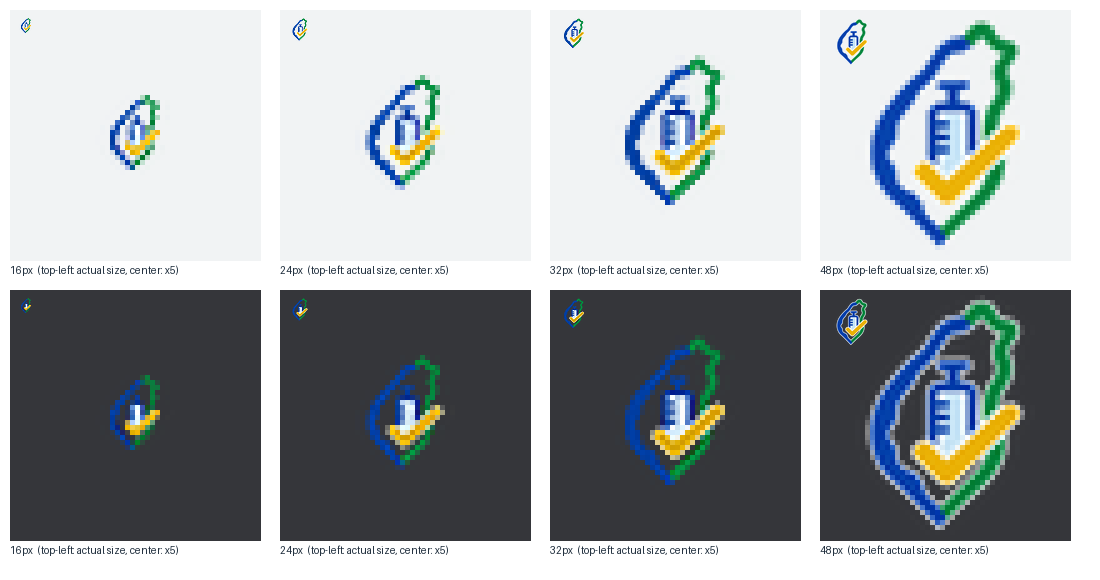
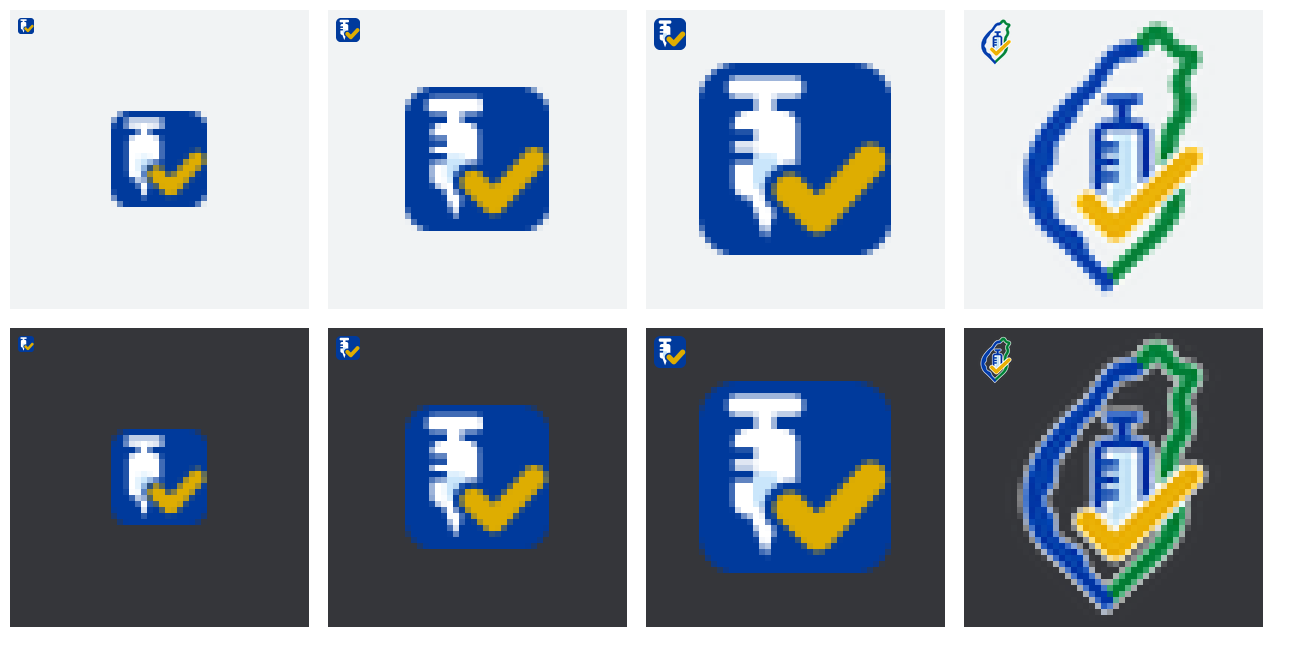
v0.4.19: 工具列方形小圖示(藍底白針筒黃勾)

diff --git a/scripts/make-brand.py b/scripts/make-brand.py
@@ -1,10 +1,9 @@
 #!/usr/bin/env python3
-"""由 assets/source/ 原圖產生外掛圖示與品牌 PNG(需 Pillow、numpy)。產物已提交進 repo,建置不需執行本腳本。
+"""由 assets/source/ 原圖產生外掛圖示與品牌 PNG(需 Pillow)。產物已提交進 repo,建置不需執行本腳本。
 用法:python3 scripts/make-brand.py
 """
 from pathlib import Path
-from PIL import Image, ImageFilter
-import numpy as np
+from PIL import Image, ImageFilter, ImageDraw
 
 ROOT = Path(__file__).resolve().parent.parent
 SRC = ROOT / 'assets/source'
@@ -34,24 +33,54 @@ def save(im, path):
     Image.open(path).load()   # 寫完立即解碼驗證
     print('✓', path.relative_to(ROOT), im.size)
 
-def drop_shadow(im):
-    """去掉圖形下方的淡藍橢圓陰影(只在圖高 86% 以下找淡藍像素)"""
-    a = np.array(im.convert('RGBA'))
-    h = a.shape[0]
-    low = np.arange(h)[:, None] > h * 0.86
-    a[low & (a[..., 2] > 200) & (a[..., 0] < 235) & (a[..., 1] > 200)] = 0
-    return Image.fromarray(a)
+# 工具列小圖示(16/24/32 px):直長的臺灣標誌在工具列只剩輪廓,另畫方形版「藍底 + 白色針筒 + 黃勾」。
+# 以 16 格為設計網格、8 倍超取樣再縮小;色票取自原圖。刻度只在 24 px 以上畫。
+BLUE=(0,58,156); GREEN=(2,131,58); YEL=(222,173,1); LIGHT=(202,230,251); WHITE=(255,255,255)
+def small(size, SS=8):
+    k=size*SS/16.0; S=size*SS
+    im=Image.new('RGBA',(S,S),(0,0,0,0)); d=ImageDraw.Draw(im)
+    R=lambda *xy: [v*k for v in xy]
+    d.rounded_rectangle(R(0,0,16,16),radius=3.2*k,fill=BLUE)
+    # 針筒(白):推桿頭、推桿、筒身(下半為藥液)、針頭
+    d.rounded_rectangle(R(2.4,1.2,8.6,2.8),radius=0.7*k,fill=WHITE)
+    d.rectangle(R(4.7,2.8,6.3,4.0),fill=WHITE)
+    d.rounded_rectangle(R(2.9,4.0,8.1,11.2),radius=1.1*k,fill=WHITE)
+    if size >= 24:
+        for y in (5.6,7.4): d.rectangle(R(2.9,y,4.6,y+0.9),fill=BLUE)   # 刻度(24 px 以上才畫)
+    d.rounded_rectangle(R(4.5,7.6,6.5,10.4),radius=0.4*k,fill=LIGHT)   # 藥液
+    d.polygon([(4.3*k,11.2*k),(6.7*k,11.2*k),(5.5*k,14.6*k)],fill=WHITE)
+    # 勾(黃,外圍藍色間隔)
+    pts=[(7.6*k,10.6*k),(9.9*k,12.9*k),(14.3*k,8.1*k)]
+    for col,w in ((BLUE,4.4),(YEL,2.6)):
+        d.line(pts,fill=col,width=round(w*k),joint='curve')
+        for p in (pts[0],pts[-1]): d.ellipse([p[0]-w/2*k,p[1]-w/2*k,p[0]+w/2*k,p[1]+w/2*k],fill=col)
+    # 圓角外切乾淨
+    mask=Image.new('L',(S,S),0); ImageDraw.Draw(mask).rounded_rectangle(R(0,0,16,16),radius=3.2*k,fill=255)
+    im.putalpha(Image.composite(im.getchannel('A'),Image.new('L',(S,S),0),mask))
+    return im.resize((size,size),Image.BOX)
 
-# 擴充功能圖示(不含文字):
-#  48/128 px 用白描邊版(與品牌素材一致);
-#  16/24/32 px 用無描邊平面版去陰影 — 白描邊在工具列尺寸只會變成糊邊,深色主題下平面版較清楚
+# 擴充功能圖示(不含文字):16/24/32 用方形小圖示;48/128(擴充功能清單)用原圖白描邊版
 mark = trim(Image.open(SRC / 'vaxcheck-mark-sticker.png'), pad=0.02)
-flat = trim(drop_shadow(Image.open(SRC / 'vaxcheck-mark-flat-shadow.png')), pad=0.02)
-for s in (16, 24, 32, 48, 128):
-    ic = (flat if s <= 32 else mark).resize((s, s), Image.LANCZOS)
-    if s <= 32:
-        ic = ic.filter(ImageFilter.UnsharpMask(radius=0.6, percent=80, threshold=0))
-    save(ic, ROOT / f'assets/icons/icon{s}.png')
+for s in (16, 24, 32):
+    save(small(s), ROOT / f'assets/icons/icon{s}.png')
+for s in (48, 128):
+    save(mark.resize((s, s), Image.LANCZOS), ROOT / f'assets/icons/icon{s}.png')
+
+# 預覽圖 docs/img/toolbar-icon.png:淺色/深色工具列,左上原尺寸、中間放大
+Z = 6
+cw = 48 * Z + 30
+pv = Image.new('RGB', (4 * cw + 20, 2 * (48 * Z + 30) + 20), 'white')
+dd = ImageDraw.Draw(pv)
+for r, bg in enumerate(('#F1F3F4', '#35363A')):
+    y = 10 + r * (48 * Z + 30)
+    for c, sz in enumerate((16, 24, 32, 48)):
+        x = 10 + c * cw
+        dd.rectangle([x, y, x + 48 * Z + 10, y + 48 * Z + 10], fill=bg)
+        ic = Image.open(ROOT / f'assets/icons/icon{sz}.png').convert('RGBA')
+        big = ic.resize((sz * Z, sz * Z), Image.NEAREST)
+        pv.paste(big, (x + 5 + (48 - sz) * Z // 2, y + 5 + (48 - sz) * Z // 2), big)
+        pv.paste(ic, (x + 8, y + 8), ic)
+save(pv, ROOT / 'docs/img/toolbar-icon.png')
 
 # 品牌 PNG(README、文件用;縮到網頁合用大小)
 def fit(im, w):

diff --git a/docs/STATUS.md b/docs/STATUS.md
@@ -1,4 +1,4 @@
-# 疫苗檢核程式 — 進度(v0.4.18)
+# 疫苗檢核程式 — 進度(v0.4.19)
 
 > 正本在 Cowork Project「疫苗檢核程式」的 claude/STATUS.md;此檔為 repo 建立時的快照。
 
@@ -18,6 +18,7 @@
 - 2026-09-27:罕見疾病改用國健署完整名單(115-07-23)作病歷證據(YC;取代同日稍早「不另建清單」之決定)。通用碼不作證據,見 v0.4.8。
 
 ## 已完成
+- **v0.4.19**(2026-09-28):工具列 16/24/32 px 改為 make-brand.py 繪製的方形小圖示(16 格網格、8 倍超取樣;藍 #003A9C 底、白針筒、黃 #DEAD01 勾含藍色間隔;刻度 ≥24 px 才畫);48/128 仍為 mark-sticker。make-brand.py 同時產生 docs/img/toolbar-icon.png,移除 numpy 依賴。
 - **v0.4.18**(2026-09-28):標誌改用 assets/source 原圖。scripts/make-brand.py(Pillow+numpy,產物提交)產生 assets/icons 16–128(≤32 用 mark-flat-shadow 去陰影、48/128 用 mark-sticker)與 assets/brand 3 張(lockup-vertical-zh、lockup-horizontal、mark)。刪 assets/logo.svg、logo-small.svg、alternatives/、舊 brand 6 張(其中 project-logo、vaxcheck-full 與 icons/icon128 為損毀檔)、docs/img/logo-alternatives.png、demo-page.png、options-page.png;toolbar-icon.png 重產。移除 devDependency @resvg/resvg-js。tests/icons.test.mjs 改為逐 chunk CRC + IDAT inflate 檢查 assets 下全部 PNG。
 - **v0.4.17**(2026-09-28):assets/source/ 標誌素材原檔 10 張(依圖形命名)+ _overview.png + README(尺寸、SHA-256、原始檔名)。不進建置。
 - **v0.4.16**(2026-09-28):(YC)scripts/install.ps1(PowerShell 5.1 相容;GitHub API releases/latest 取 `vaxcheck-ext-*.zip`、SHA256SUMS 校驗、桌面\vaxcheck 保留資料夾只清內容、攤平多一層、防誤刪非 VaxCheck 資料夾、Set-Clipboard、開 chrome://extensions)與 README 貼上區塊;tests/install-script.test.mjs 檢查兩者同步、5.1 語法限制、不動登錄檔,有 pwsh 時解析 + 本機假 API 實跑。標誌 assets/logo.svg(48/128)、assets/logo-small.svg(16/24/32),scripts/icons.mjs 以 @resvg/resvg-js(新 devDependency)產生 PNG,取代 build.mjs 手繪 PNG;manifest icons 加 32、action.default_icon 16/24/32;設定頁標題、示範頁 favicon。截圖 docs/img/toolbar-icon.png、options-page.png、demo-page.png、logo-alternatives.png。v0.4.14–0.4.15 未單獨發行,隨本版發行(線上規則 v0412)。單元與情境 132/132、端對端 56/56。

diff --git a/CHANGELOG.md b/CHANGELOG.md
@@ -2,6 +2,10 @@
 
 每一版一節,標題格式固定為 `## vX.Y.Z(日期)`:發行時 `scripts/release-notes.mjs` 取該節當 GitHub Release 說明,沒有這一節就不能發行。技術細節見 `docs/STATUS.md`。
 
+## v0.4.19(2026-09-28)
+- **工具列專用方形小圖示**(16/24/32 px):藍底 + 白色針筒 + 黃色勾,顏色取自新標誌。原本直長的臺灣標誌在工具列只剩輪廓、看不出針筒;方形版在淺色與深色主題都清楚。擴充功能清單(48/128 px)仍用完整標誌。
+- 判定邏輯與規則內容未變(規則 2026.09.28-v0412)。
+
 ## v0.4.18(2026-09-28)
 - **換上新標誌**(臺灣輪廓 + 疫苗針劑 + 勾選):擴充功能圖示、設定頁、示範頁、README 主圖全部改用 `assets/source/` 的原圖。工具列 16/24/32 px 用無白邊的平面版,深色主題下較清楚;48/128 px 用白描邊版。
 - 修正:舊版 128 px 圖示與 README 主圖檔案損毀(擴充功能清單可能顯示預設灰色圖示),本版重新產生並加上 PNG 完整性檢查。

diff --git a/README.md b/README.md
@@ -184,7 +184,7 @@ node e2e/run.mjs         # 需全域 playwright:真 Chromium 載入外掛,偽造
 - `assets/brand/vaxcheck-lockup-vertical-zh.png`:README 主圖(標誌 + 字標 + 中文標語)。
 - `assets/brand/vaxcheck-lockup-horizontal.png`:橫式(標誌 + 字標)。
 - `assets/brand/vaxcheck-mark.png`:純圖形 512 px。
-- `assets/icons/icon{16,24,32,48,128}.png`:擴充功能圖示,不含文字;48/128 px 用白描邊版,16/24/32 px 用平面版去陰影(工具列尺寸較清楚)。`scripts/icons.mjs` 建置時直接複製。
+- `assets/icons/icon{16,24,32,48,128}.png`:擴充功能圖示,不含文字。16/24/32 px(工具列)為方形小圖示「藍底 + 白色針筒 + 黃勾」,由腳本繪製;48/128 px(擴充功能清單)用原圖白描邊版。預覽見 `docs/img/toolbar-icon.png`。`scripts/icons.mjs` 建置時直接複製。
 
 ## 目錄
 ```

diff --git a/assets/source/README.md b/assets/source/README.md
@@ -1,7 +1,7 @@
 # 品牌素材原檔(assets/source)
 
 VaxCheck 標誌的**原始素材**,2026-09-28 由 YC 以 ChatGPT 圖像生成後提供,依圖形內容重新命名。
-這裡是**唯一的標誌來源**。`python3 scripts/make-brand.py` 由這裡產生 `assets/icons/`(擴充功能圖示,用 `mark-sticker` 與 `mark-flat-shadow`)與 `assets/brand/`(用 `lockup-vertical-zh`、`lockup-horizontal`、`mark-sticker`);建置流程不直接讀本資料夾。
+這裡是**唯一的標誌來源**。`python3 scripts/make-brand.py` 由這裡產生 `assets/icons/`(48/128 px 用 `mark-sticker`;16/24/32 px 工具列小圖示為腳本繪製的方形版,色票取自原圖)與 `assets/brand/`(用 `lockup-vertical-zh`、`lockup-horizontal`、`mark-sticker`);建置流程不直接讀本資料夾。
 
 ![總覽](_overview.png)
 
